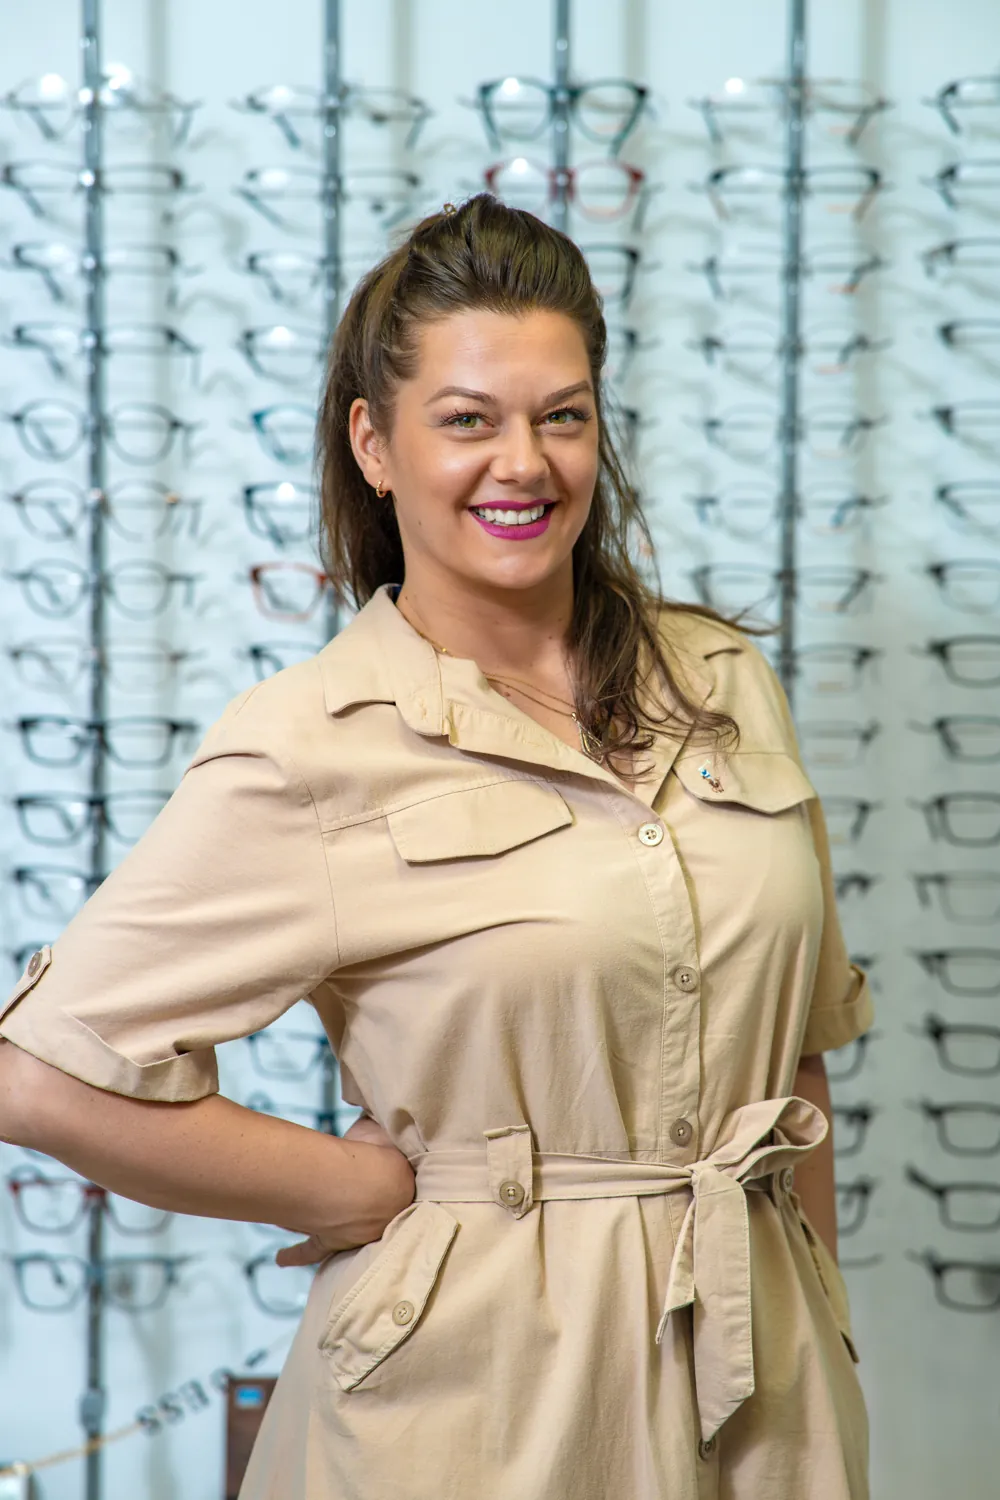
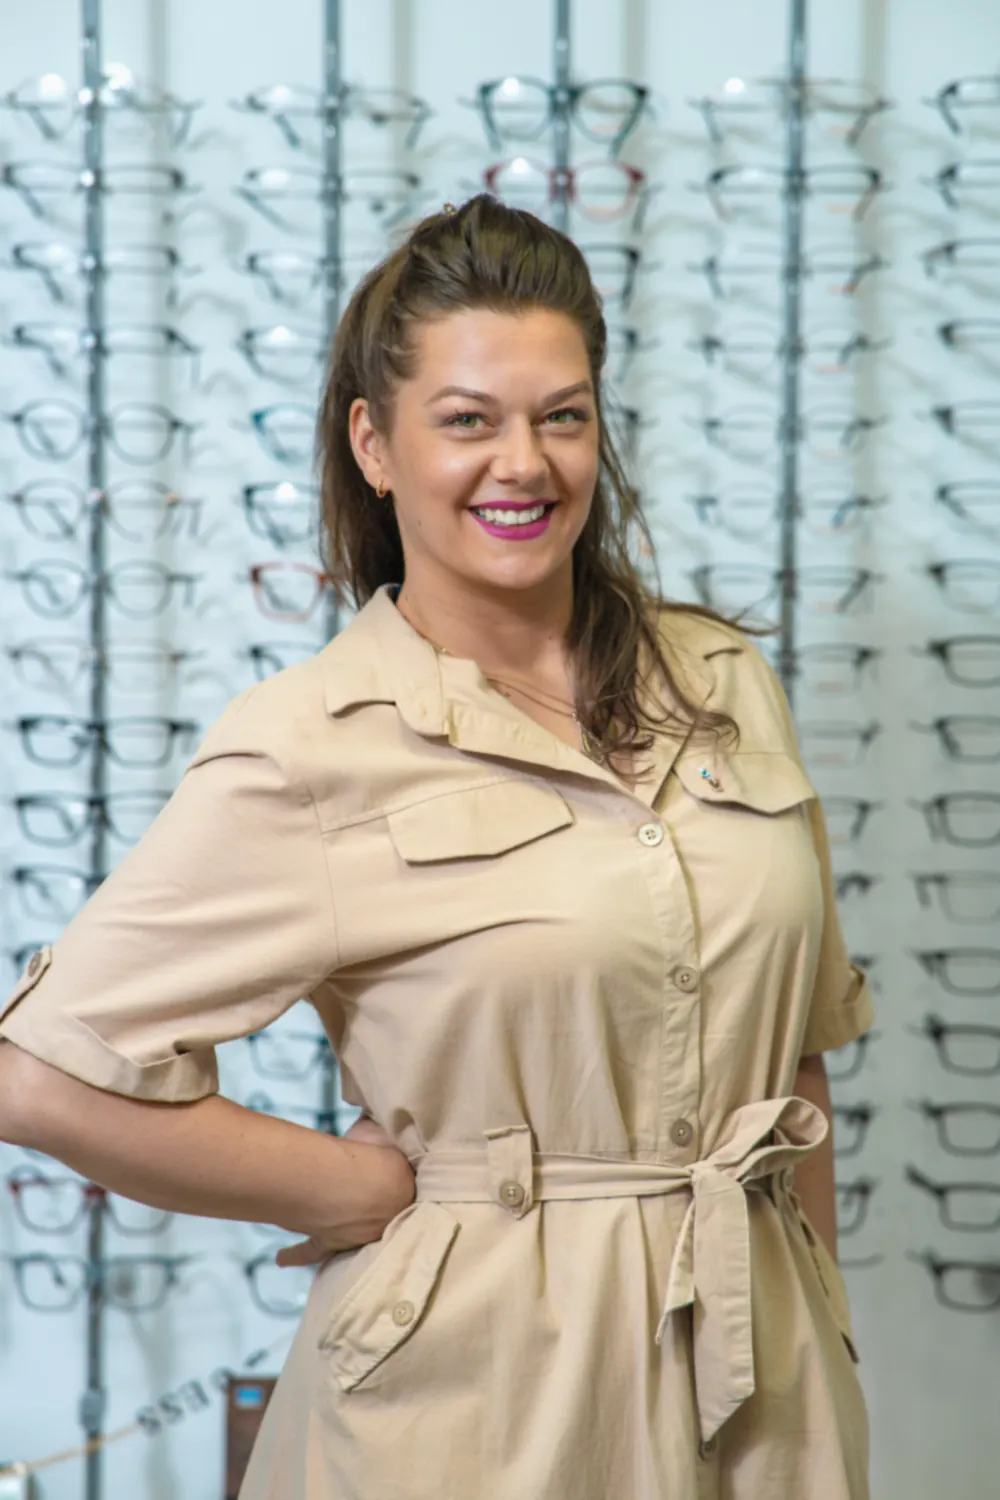
Photos: softer export

Changed region(s): [[0.589, 0.4907, 0.62, 0.5213]]

diff --git a/_izvor/photos.py b/_izvor/photos.py
@@ -1,0 +1,21 @@
+from PIL import Image, ImageOps, ImageFilter, ImageEnhance
+S='/mnt/user-data/uploads/Desktop/GINTER/sajt/materijali/foto/'
+A='/mnt/user-data/attachments/bd42655e-adf2-553c-8ee4-c8b90d65e91f/c920650a-image.png'
+OUT='/home/claude/site/img/'
+def load(p): return ImageOps.exif_transpose(Image.open(p)).convert('RGB')
+def soft(im, w, blur, contrast=0.94, sat=0.95):
+    r=im.copy(); r=r.resize((w, round(im.height*w/im.width)), Image.BICUBIC)
+    r=r.filter(ImageFilter.GaussianBlur(blur))
+    r=ImageEnhance.Contrast(r).enhance(contrast); r=ImageEnhance.Color(r).enhance(sat)
+    return r
+def save(im,name,w,blur,**k): soft(im,w,blur*w/1000,**k).save(f'{OUT}{name}-{w}.webp','WEBP',quality=78,method=6)
+for n,src in [('ervin',S+'ervin.jpg'),('bojana',S+'bojana.jpg'),('anna',A)]:
+    im=load(src)
+    for w in (600,1000): save(im,n,w,0.9)
+h=load(S+'salon2.jpg')
+for w in (960,1600,2400): save(h,'hero',w,0.6)
+s=load(S+'salon.jpg')
+for w in (800,1400): save(s,'salon',w,0.6)
+f=s.crop((s.width//2,0,s.width,s.height))
+for w in (800,1600): save(f,'frames',w,0.6)
+print('ok')
